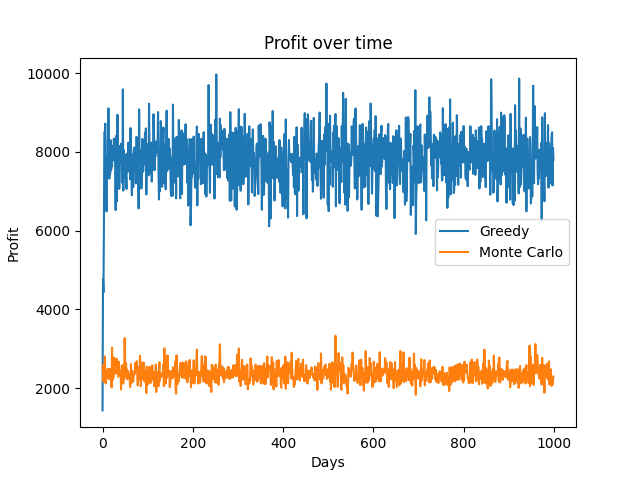
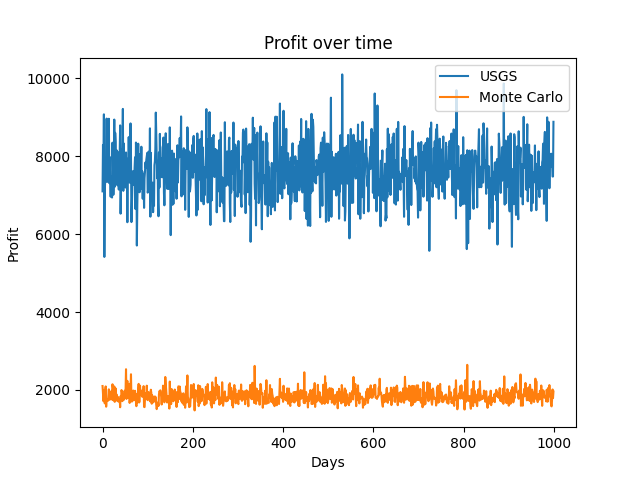
Fixed graph label

diff --git a/main.py b/main.py
@@ -12,7 +12,7 @@ def plot_profit(days: int, greedy_profits: list[float] = None, monteCarlo_profit
     plt.title('Profit over time')
     plt.plot(range(days), greedy_profits)
     plt.plot(range(days), monteCarlo_profits)
-    plt.legend(['Greedy', 'Monte Carlo'])
+    plt.legend(['USGS', 'Monte Carlo'])
     plt.savefig('Figures/GreedyvsMonteCarlo.png')
     plt.show()
         
